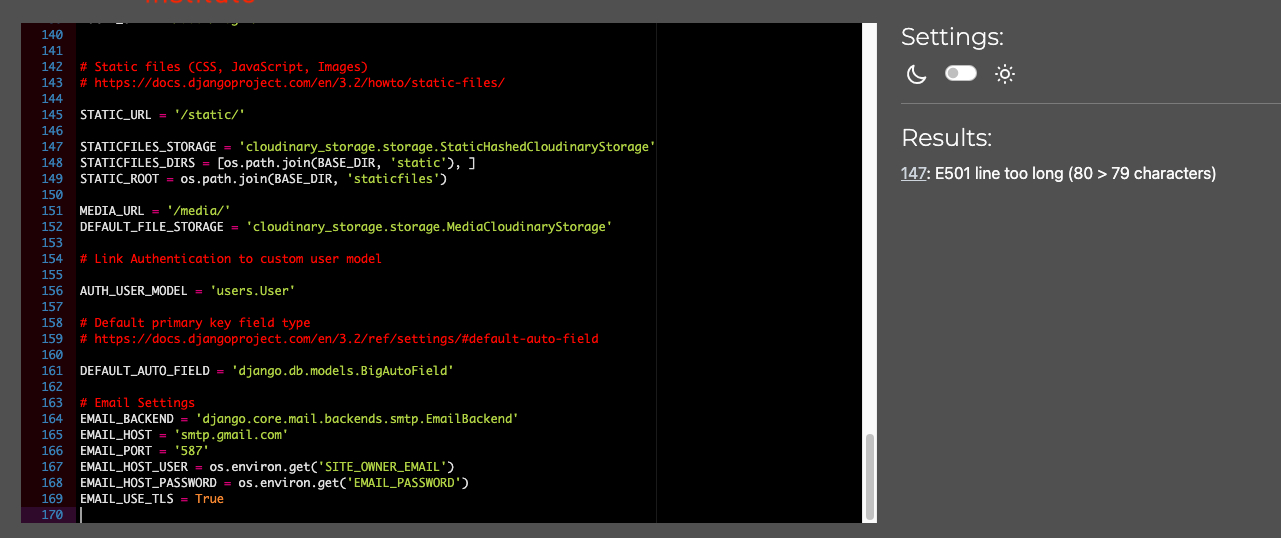
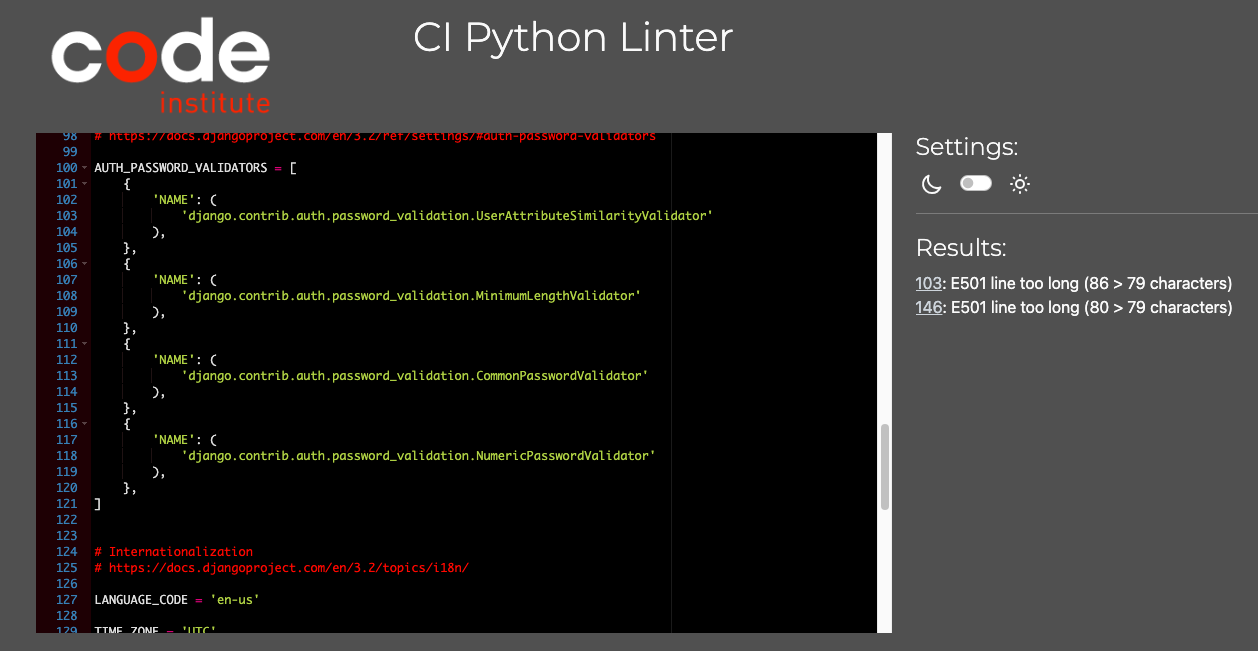
DOCS: Testing and validation of parent information

Changed region(s): [[0.0, 0.0, 0.9921, 0.9814]]

diff --git a/TESTING.md b/TESTING.md
@@ -31,8 +31,8 @@ The [Nu Html Checker](https://validator.w3.org/nu/) was used to validate all htm
 | | account_header.html | | |
 | | 404.html | | |
 | | 500.html | | |
-| | hero.html | PASS | Tested as part of the landing page|
-| | parent_info.html | | |
+| | hero.html | PASS | Tested as part of the landing page |
+| | parent_info.html | PASS | Tested as part of the landing page |
 | templates/password_reset | password_reset.html | | |
 | | password_reset_sent.html | | |
 | | password_reset_complete.html | | |
@@ -72,7 +72,7 @@ Each individual pythoon file created or edited by me has been passed through the
 
 | App/folder | Python file | Result | Extra notes |
 | --- | --- | --- | --- |
-| inspiringyw | settings.py | | |
+| inspiringyw | settings.py | Two errors | See below for further details |
 | | urls.py | Clear | |
 | | views.py | | |
 | home | urls.py | Clear | |
@@ -97,7 +97,9 @@ Each individual pythoon file created or edited by me has been passed through the
 
 #### Python warnings
 
-Testing of settings.py generated an 'E501 line too long (80 > 79 characters)' error. I searched for ways to reduce this line length but attempts to split up the string 'cloudinary_storage.storage.StaticHashedCloudinaryStorage' lead to errors when running the program as it was then unable to correctly link to cloudinary.
+Testing of settings.py generated:
+- a 'E501 line too long (80 > 79 characters)' error for line 146. I searched for ways to reduce this line length but attempts to split up the string 'cloudinary_storage.storage.StaticHashedCloudinaryStorage' lead to errors when running the program as it was then unable to correctly link to cloudinary.
+- a 'E501 line too long (86 > 79 characters)' error for line 103. Initial attempts to split up the string 'django.contrib.auth.password_validation.UserAttributeSimilarityValidator' lead to a 500 error when navigating to the sign-up page. I was unable to find an alternative solution for shorting the line length.
 
 ![Screenshot of the Error and associated code](documentation/testing/python-error-settings.png)
 
@@ -120,14 +122,14 @@ The acceptance criteria for each user story has been checked on completion (1st 
 | | | The writing includes title, author, author's age and the writing | PASS | PASS |
 | 3 | As a **new user** I am given clear information on what registered users can do | Future Feature | | |
 | 4 | As the **parent of a new user** I am provided with information which details how the site works | I can navigate to 'Information for parents' from the navigation bar | PASS | PASS |
-| | | I can navigate to 'Information for parents' from the sign-up page | PASS | |
-| | | 'Information for parents' available across the full platform | PASS | |
-| | | 'Information for parents' opens up in a modal | PASS | |
-| | | A title makes it clear the information is targeted towards parents | PASS | |
-| | | An introduction quickly explains what information is contained in this section | PASS | |
-| | | The information is split into clear sections each with a title and picture | PASS | |
-| | | The layout and styling of the information makes it easy to scan and pick out information of interest | PASS | |
-| | | A clear back button can be used to re-hide the information | PASS | |
+| | | I can navigate to 'Information for parents' from the sign-up page | PASS | PASS |
+| | | 'Information for parents' available across the full platform | PASS | PASS |
+| | | 'Information for parents' opens up in a modal | PASS | PASS |
+| | | A title makes it clear the information is targeted towards parents | PASS | PASS |
+| | | An introduction quickly explains what information is contained in this section | PASS | PASS |
+| | | The information is split into clear sections each with a title and picture | PASS | PASS |
+| | | The layout and styling of the information makes it easy to scan and pick out information of interest | PASS | PASS |
+| | | A clear back button can be used to re-hide the information | PASS | PASS |
 | 5 | As the **parent of a new user** I can contact the site admin | I can navigate intuitively and easily to the contact page | PASS | |
 | | | The design of the page is pleasing to the eye and doesn't distract | PASS | |
 | | | The title and introduction reassure me as to what the form is for | PASS | |
@@ -386,33 +388,33 @@ The following documents all forms and any requirements needed, with details on h
 
 | Input Field | Requirement | How error caught | Final check |
 | --- | ----- | ---- | -- |
-| Pen name | Required field | "Please fill in this field" notification pointed at input box | |
-| | Unique name required | Messages displayed under sign-up title: "Form not valid. Please correct before clicking to signup" and "User with this Username already exists." | |
-| | Text only no numbers | Messages displayed under sign-up title: "Form not valid. Please correct before clicking to signup" and "Only letters and spaces are allowed in your Pen name" | |
-| | Maximum length 20 | Cannot physically enter more than 20 characters | |
-| | No swear words | If swear word entered is on the validation list the following message is displayed "Swear word ' ' is not allowed. Please remove. | |
-| Age | Required field | "Please fill in this field" notification pointed at input box | |
-| | Age must be between and including 8 and 12 | Messages displayed under sign-up title: "Form not valid. Please correct before clicking to signup" and "Ensure this value is greater than or equal to 8." | |
-| | | Messages displayed under sign-up title: "Form not valid. Please correct before clicking to signup" and "Ensure this value is less than or equal to 12." | |
-| First name | Required field | "Please fill in this field" notification pointed at input box | |
-| | Text only no numbers | Messages displayed under sign-up title: "Form not valid. Please correct before clicking to signup" and "Only letters and spaces are allowed in your First name" | |
-| | Maximum length 12 | Cannot physically enter more than 12 characters | |
-| Second name | Required field | "Please fill in this field" notification pointed at input box | |
-| | Text only no numbers | Messages displayed under sign-up title: "Form not valid. Please correct before clicking to signup" and "Only letters and spaces are allowed in your Second name" | |
-| | Maximum length 20 | Cannot physically enter more than 20 characters | |
-| Email | Recognisable as a real email address | Messages displayed under sign-up title: "Form not valid. Please correct before clicking to signup" and "Enter a valid email address." | |
-| | | "Please include an @ in the email address" notification pointed at input box | |
-| | | "Please enter a part following the @" notification pointed at input box | |
-| | | "Please enter a part followed by @" notification pointed at input box | |
-| | Maximum length 320 | Cannot physically enter more than 320 characters | |
-| Consent | Must be checked | "Please tick this box if you want to proceed" notification pointed at input box | |
-| Password1 | Required field | "Please fill in this field" notification pointed at input box | |
-| | Can't be too similar to other personal information | Messages displayed under sign-up title: "Form not valid. Please correct before clicking to signup" and "The password is too similar to the username." | |
-| | Must contain at least 8 characters | Messages displayed under sign-up title: "Form not valid. Please correct before clicking to signup" and "This password is too short. It must contain at least 8 characters." | |
-| | Can't be a commonly used password | Messages displayed under sign-up title: "Form not valid. Please correct before clicking to signup" and "This password is too common." | |
-| | Can't be entirely numeric | Messages displayed under sign-up title: "Form not valid. Please correct before clicking to signup" and "This password is entirely numeric." | |
-| Password2 | Required field | "Please fill in this field" notification pointed at input box | |
-| | Must match password1 | Messages displayed under sign-up title: "Form not valid. Please correct before clicking to signup" and "The two password fields didn’t match." | |
+| Pen name | Required field | "Please fill in this field" notification pointed at input box | PASS |
+| | Unique name required | Messages displayed under sign-up title: "Form not valid. Please correct before clicking to signup" and "User with this Username already exists." | PASS |
+| | Text only no numbers | Messages displayed under sign-up title: "Form not valid. Please correct before clicking to signup" and "Only letters and spaces are allowed in your Pen name" | PASS |
+| | Maximum length 20 | Cannot physically enter more than 20 characters | PASS |
+| | No swear words | If swear word entered is on the validation list the following message is displayed "Swear word ' ' is not allowed. Please remove. | PASS |
+| Age | Required field | "Please fill in this field" notification pointed at input box | PASS |
+| | Age must be between and including 8 and 12 | Messages displayed under sign-up title: "Form not valid. Please correct before clicking to signup" and "Sorry but this platform has been specifically designed for children aged 8 to 12" | PASS |
+| First name | Required field | "Please fill in this field" notification pointed at input box | PASS |
+| | Text only no numbers | Messages displayed under sign-up title: "Form not valid. Please correct before clicking to signup" and "Only letters and spaces are allowed in your First name" | PASS |
+| | Maximum length 12 | Cannot physically enter more than 12 characters | PASS |
+| Second name | Required field | "Please fill in this field" notification pointed at input box | PASS |
+| | Text only no numbers | Messages displayed under sign-up title: "Form not valid. Please correct before clicking to signup" and "Only letters and spaces are allowed in your Second name" | PASS |
+| | Maximum length 20 | Cannot physically enter more than 20 characters | PASS |
+| Email | Required field | "Please fill in this field" notification pointed at input box | PASS |
+| | Recognisable as a real email address | Messages displayed under sign-up title: "Form not valid. Please correct before clicking to signup" and "Enter a valid email address." | |
+| | | On chrome: "Please include an @ in the email address" On Safari: "Enter an email address" notification pointed at input box | PASS |
+| | | On chrome: "Please enter a part following the @" On Safari: "Enter an email address" notification pointed at input box | PASS |
+| | | On chrome: "Please enter a part followed by @" On Safari: "Enter an email address" notification pointed at input box | PASS |
+| | Maximum length 320 | Cannot physically enter more than 320 characters | PASS |
+| Consent | Must be checked | "Please tick this box if you want to proceed" notification pointed at input box | PASS |
+| Password1 | Required field | "Please fill in this field" notification pointed at input box | PASS |
+| | Can't be too similar to other personal information | Messages displayed under sign-up title: "Form not valid. Please correct before clicking to signup" and "The password is too similar to the username." | PASS |
+| | Must contain at least 8 characters | Messages displayed under sign-up title: "Form not valid. Please correct before clicking to signup" and "This password is too short. It must contain at least 8 characters." | PASS |
+| | Can't be a commonly used password | Messages displayed under sign-up title: "Form not valid. Please correct before clicking to signup" and "This password is too common." | PASS |
+| | Can't be entirely numeric | Messages displayed under sign-up title: "Form not valid. Please correct before clicking to signup" and "This password is entirely numeric." | PASS |
+| Password2 | Required field | "Please fill in this field" notification pointed at input box | PASS |
+| | Must match password1 | Messages displayed under sign-up title: "Form not valid. Please correct before clicking to signup" and "The two password fields didn’t match." | PASS |
 
 
 ### Login form
@@ -632,6 +634,10 @@ Note: The alerts are linked to longer alt text for the hero-images. Longer text 
 
 ### Information For Parents
 
+![screenshot of wave test results showing no errors detected](documentation/testing/wave-parent-information.png)
+
+Note: The alerts are linked to longer alt text for the hero-images. Longer text was written purposefully in order to provide more detail for those unable to see the image.
+
 ### Contact Us (New User Experience)
 
 ### 404 Error Page
@@ -679,8 +685,6 @@ Results for desktop:
 Results for mobile:
 ![Screenshot showing performance 77, accessibility 100, best practice 95 and SEO 100](documentation/testing/lighthouse-landing-page-mobile.png)
 
-### Information For Parents
-
 ### Contact Us (New User Experience)
 
 ### 404 Error Page
@@ -719,6 +723,42 @@ Results for mobile:
 
 ## Responsive Testing
 
+The platform has been fully tested across a range of screen sizes, from 350px upto 1920px. Screenshots that show how the pages change across different screen sizes have been included below.
+
+### Landing Page
+
+#### Mobile first (< 640px )
+
+![screenshot of the landing page](documentation/features/landing-page-mobile.PNG)
+
+#### Small screens ( 640px - 768px )
+
+![screenshot of the landing page](documentation/features/landing-page-devtools-small.png)
+
+#### Medium screens ( 768px - 1024px )
+
+![screenshot of the landing page](documentation/features/landing-page-devtools-medium.png)
+
+#### Large screens ( 1024px - 1280px )
+
+![screenshot of the landing page](documentation/features/landing-page-safari-large.png)
+
+### Parent information
+
+#### Mobile first (< 640px )
+
+![screenshot of the parent info page](documentation/features/parent-info-mobile-1.PNG)
+
+![screenshot of the parent info page](documentation/features/parent-info-mobile-2.PNG)
+
+#### Medium screens ( 768px - 1024px )
+
+![screenshot of the parent info page](documentation/features/parent-info-devtools-medium.png)
+
+#### Large screens ( 1024px - 1280px )
+
+![screenshot of the parent info page](documentation/features/parent-info-chrome-1.png)
+
 
 ### Mobile first (< 640px )
 
@@ -728,19 +768,13 @@ All pages have been tested and respond well for screens as small as 350px. A sel
 
 A selection of screenshots have been taken from Chrome dev tools, showing the responsiveness of the platform for small screens:
 
-![screenshot of the landing page](documentation/features/landing-page-devtools-small.png)
-
 ### Medium screens ( 768px - 1024px )
 
 A selection of screenshots have been taken from Chrome dev tools, showing the responsiveness of the platform for medium screens:
 
-![screenshot of the landing page](documentation/features/landing-page-devtools-medium.png)
-
 ### Large screens ( 1024px - 1280px )
 
 A selection of screenshots from a safari browser on a 13-inch screen have been added below:
-
-![screenshot of the landing page](documentation/features/landing-page-safari-large.png)
 
 ### Extra large screens ( > 1280px)
 
@@ -755,7 +789,7 @@ Intro
 
 ### Safari
 
-The platform has been fully tested on a Safari browser on both a MacBook Air and an iPhone 12 mini. Screenshots can be seen within the features section of the readme and the reponsive testing.
+The platform has been fully tested on a Safari browser on both a MacBook Air and an iPhone 12 mini.
 
 ### Firefox
 
